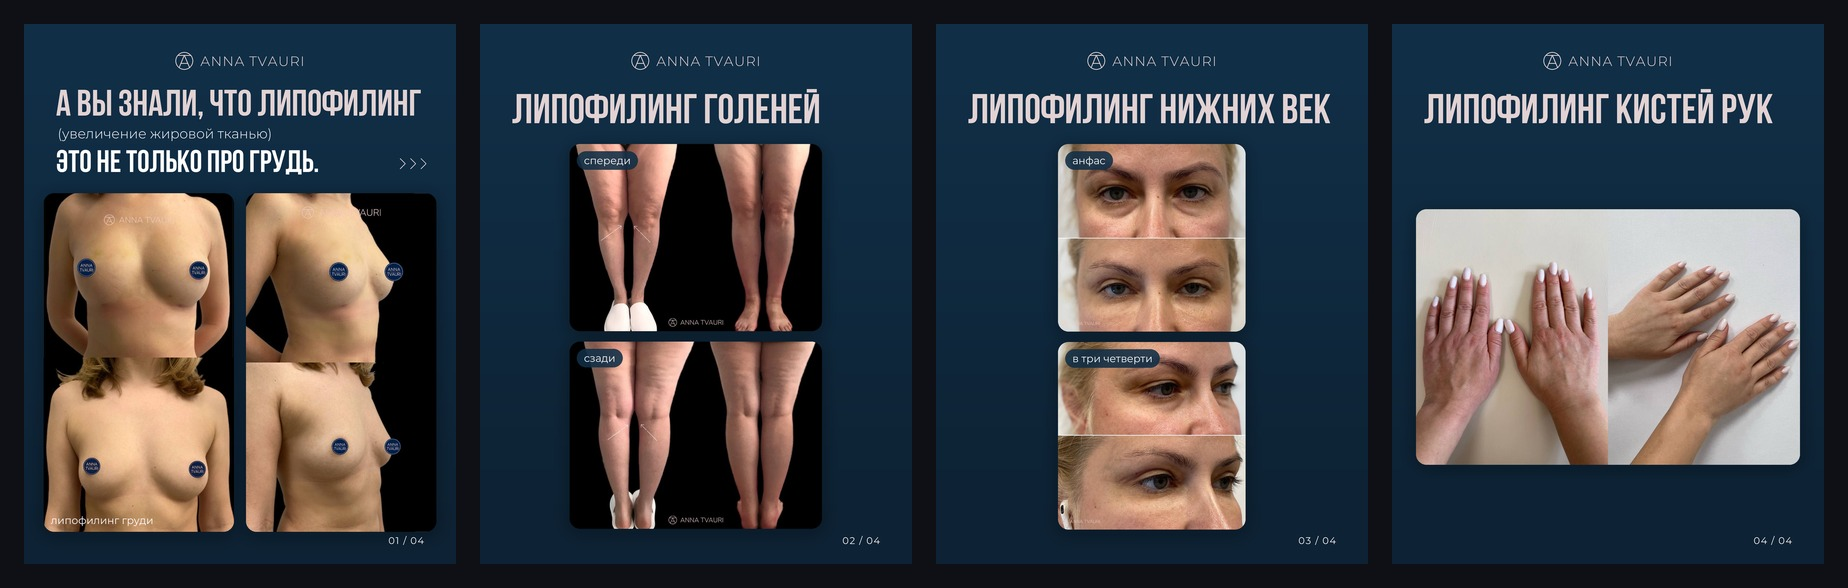
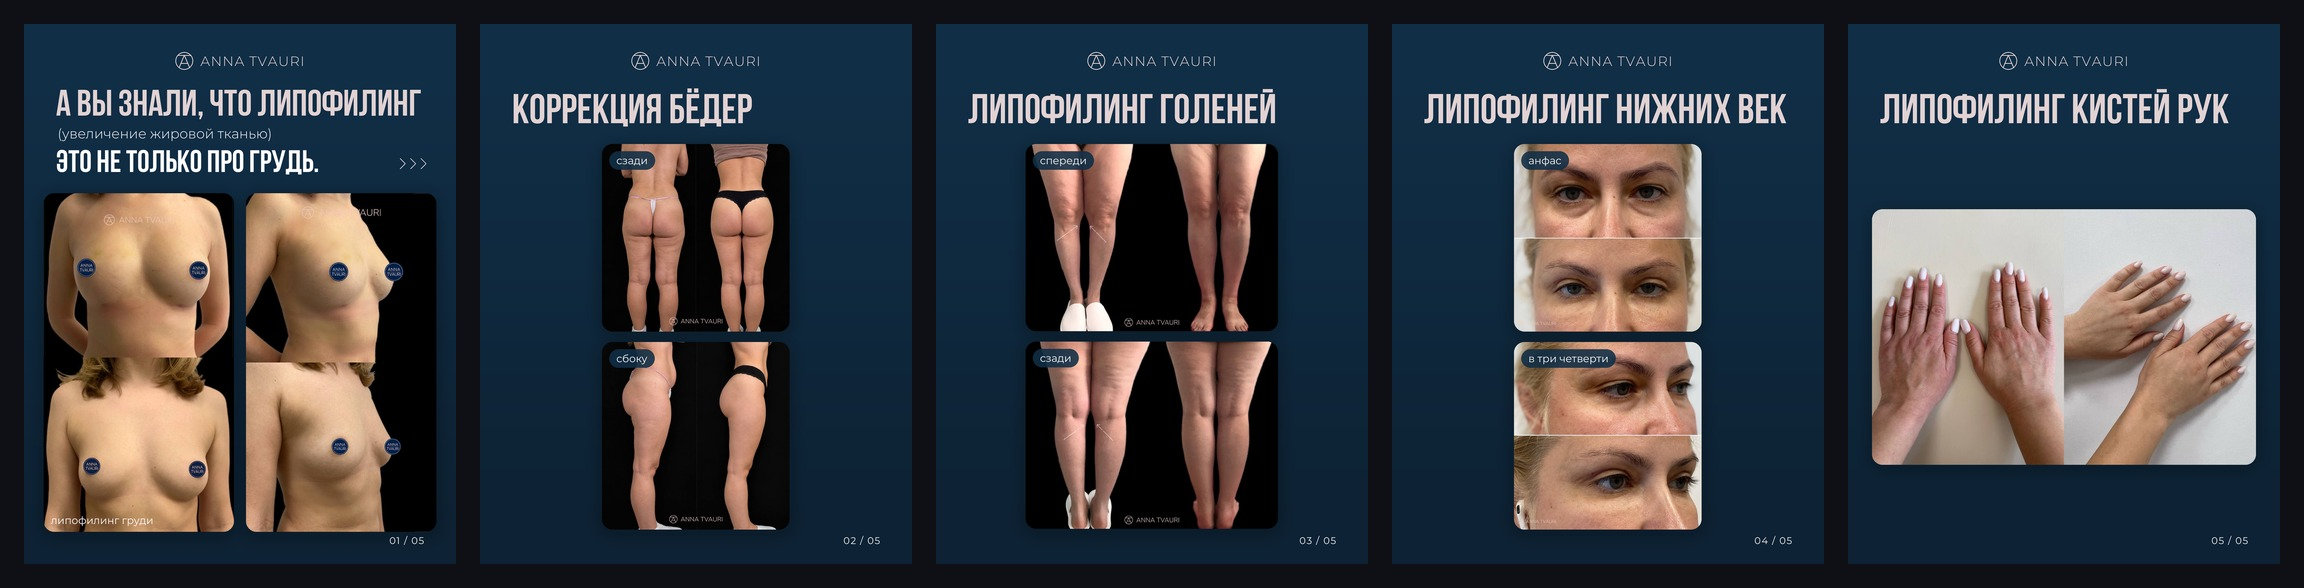
Lipofilling zones carousel: hips slide (back + side result) as slide 2
Claude-Session: https://claude.ai/code/session_01DLYcpYAewhkUMdYYshxueL

diff --git a/tools/post_lipofilling_zones.py b/tools/post_lipofilling_zones.py
@@ -5,7 +5,7 @@ navy slides, powder Bebas headlines, thin Montserrat, before/after photos in rou
   02 shins: front and back result, stacked, with 'спереди' / 'сзади' labels
   03 lower eyelids: straight-on and three-quarter result
   04 hands: the hands result
-  (a hips slide is added when HIPS files are given)
+  02 hips (when HIPS files are given): back and side result (IMG_0612, IMG_0614)
 
 usage: python3 post_lipofilling_zones.py MATERIALS_DIR OUT_DIR [HIPS_1.jpg HIPS_2.jpg]
 """
@@ -111,7 +111,7 @@ def main():
     out = [cover(1, total)]
     k = 2
     if HIPS:
-        out.append(two_stacked(k, total, ["КОРРЕКЦИЯ БЁДЕР"], [("результат 1", HIPS[0], 1.345, 0.5), ("результат 2", HIPS[1], 1.345, 0.5)],
+        out.append(two_stacked(k, total, ["КОРРЕКЦИЯ БЁДЕР"], [("сзади", HIPS[0], 1.0, 0.5), ("сбоку", HIPS[1], 1.0, 0.5)],
                                f"{k:02d}_hips.jpg")); k += 1
     out.append(two_stacked(k, total, ["ЛИПОФИЛИНГ ГОЛЕНЕЙ"],
                            [("спереди", "IMG_0668.JPG", 1024 / 761, 0.5), ("сзади", "IMG_0669.JPG", 1024 / 761, 0.5)],
